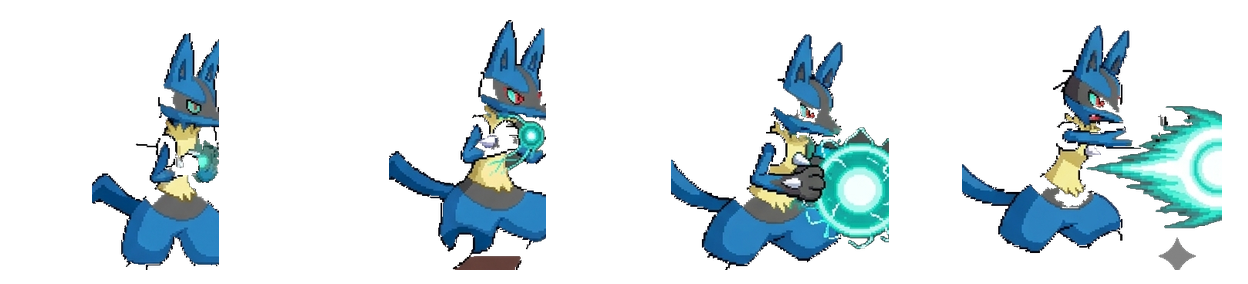
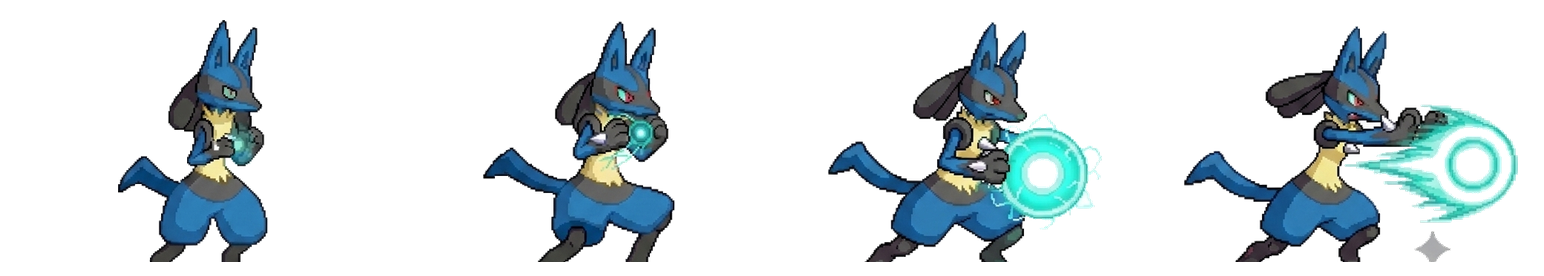
Redo Lucario Aura Sphere sequence from clean white-bg sheet
The original Lucario sheets were dark-background and inconsistently sized
between moves. The redone sheets are white-bg (matching the Venusaur sheets), so
extract_lucario.py now uses the white-bg pipeline (pure-white key + grid-line
removal + baseline-aligned strip build); source sheets live in tools/lucario_redo.

Re-extracts Aura Sphere -> luca_seq_as.png (cell 386x276, was 312x284) and
updates its BOSS_SEQ entry. Frames are baseline-aligned so Lucario stays put
while the orb forms and launches. Flash Cannon / Dragon Pulse / Vacuum Wave to
follow as their redone sheets arrive.

diff --git a/sparkrunmath.html b/sparkrunmath.html
@@ -159,7 +159,7 @@ const BOSS_SEQ = {
   'gyara_waterfall.png':  { file:'gyara_seq_wf.png', cw:510, ch:510 },
   'gyara_icefang.png':    { file:'gyara_seq_if.png', cw:445, ch:247 },
   // Lucario move strips (4-frame sequences extracted from the supplied sheets)
-  'luca_aurasphere.png':  { file:'luca_seq_as.png', cw:312, ch:284 },
+  'luca_aurasphere.png':  { file:'luca_seq_as.png', cw:386, ch:276 },
   'luca_flashcannon.png': { file:'luca_seq_fc.png', cw:553, ch:335 },
   'luca_dragonpulse.png': { file:'luca_seq_dp.png', cw:675, ch:362 },
   'luca_vacuumwave.png':  { file:'luca_seq_vw.png', cw:417, ch:396 },

diff --git a/tools/extract_lucario.py b/tools/extract_lucario.py
@@ -1,21 +1,28 @@
 #!/usr/bin/env python3
 """
-Extract Lucario move animation strips from the supplied 2x2 sequence sheets.
+Extract Lucario move animation strips from the REDONE 2x2 sequence sheets.
 
-Each source sheet is a 2x2 grid (title bar + per-cell labels) of Lucario doing a
-move across 4 frames, on a dark sheet background with lighter interior panels.
+The original Lucario sheets were dark-background and at inconsistent resolutions
+between moves, which made the in-game strips render at mismatched sizes. The
+redone sheets are WHITE-background (a thin black grid cross between the 4 cells),
+matching the Venusaur sheets — so this now uses the white-bg pipeline (the dark-
+bg version is retired; the old sheets remain in tools/lucario_sheets for ref).
 
-Pipeline (mirrors the Gyarados one documented in PROGRESS.md):
+Pipeline (mirrors tools/extract_venusaur.py):
   1. Find the 4 sprites as the 4 largest *saturated* blobs (Lucario's blue/yellow
-     body is saturated; panels, dividers and grey/white text are not).
-  2. For each, crop a padded bbox, then edge-flood-fill the background to
-     transparent (keeps interior black outlines, which aren't reachable from the
-     edge). Background = near the dark sheet bg OR near the grey panel colour.
-  3. Keep the largest blob (+ anything bright/coloured touching it) to drop stray
-     label specks, then assemble the 4 frames into one uniform horizontal strip.
+     body + the blue aura FX are saturated; the white sheet and black grid lines
+     are not).
+  2. For each, crop a padded bbox, edge-flood-fill the WHITE background to
+     transparent (+ a global pure-white key), and drop thin black grid-line
+     remnants that fall at a crop edge.
+  3. Assemble the 4 frames into one uniform horizontal strip — uniform scale
+     (median sprite height) + a common baseline/anchor so Lucario stays put while
+     the FX plays.
+
+Processes whatever sheets are present in tools/lucario_redo/, writes cleaned
+strips (luca_seq_*.png) into the repo root, plus a /tmp preview for visual QA.
 
 Run:  python3 tools/extract_lucario.py
-Outputs cleaned strips (luca_seq_*.png) into the repo root, plus a preview.
 """
 import os
 import numpy as np
@@ -23,12 +30,14 @@ from PIL import Image
 from scipy import ndimage
 
 ROOT = os.path.dirname(os.path.dirname(os.path.abspath(__file__)))
-SRC = os.path.join(ROOT, 'tools', 'lucario_sheets')      # committed source 2x2 grids
+SRC = os.path.join(ROOT, 'tools', 'lucario_redo')         # redone white-bg 2x2 grids
+WHITE = np.array([255, 255, 255])                          # sheets have black borders, so key on pure white (not corners)
+# source filename -> (out key, label). luca_seq_<key>.png mirrors the in-game move files.
 SHEETS = [
-    ('as', 'Aura Sphere',  f'{SRC}/aura_sphere.png'),
-    ('fc', 'Flash Cannon', f'{SRC}/flash_cannon.png'),
-    ('dp', 'Dragon Pulse', f'{SRC}/dragon_pulse.png'),
-    ('vw', 'Vacuum Wave',  f'{SRC}/vacuum_wave.png'),
+    ('aura_sphere.png',  'as', 'Aura Sphere'),
+    ('flash_cannon.png', 'fc', 'Flash Cannon'),
+    ('dragon_pulse.png', 'dp', 'Dragon Pulse'),
+    ('vacuum_wave.png',  'vw', 'Vacuum Wave'),
 ]
 
 def sat_val(a):
@@ -57,32 +66,30 @@ def find_frames(a):
     boxes.sort(key=lambda b: (b[1] + b[3]) / 2)
     return sorted(boxes[:2], key=lambda b: b[0]) + sorted(boxes[2:], key=lambda b: b[0])
 
-def cutout(a, box, darkbg, pad=10):
-    """Tight cutout of one sprite: pad the blob bbox, edge-flood-fill the bg to
-    transparent, drop label/divider specks, tighten. Returns (rgba, cx, baseline)."""
+def cutout(a, box, pad=10):
+    """Tight cutout of one sprite: pad the blob bbox, edge-flood-fill the white bg
+    to transparent, drop grid-line / label specks, tighten. Returns (rgba, cx, h)."""
     x0, y0, x1, y1 = box
     x0 = max(0, x0 - pad); y0 = max(0, y0 - pad)
     x1 = min(a.shape[1], x1 + pad); y1 = min(a.shape[0], y1 + pad)
     crop = a[y0:y1, x0:x1].astype(int)
     h, w, _ = crop.shape
     sat, val = sat_val(crop)
-    ring = np.concatenate([crop[0], crop[-1], crop[:, 0], crop[:, -1]])
-    rsat = ring.max(1) - ring.min(1)
-    panel = np.median(ring[rsat < 25], axis=0) if (rsat < 25).any() else darkbg
-    bglike = (np.abs(crop - darkbg).sum(2) < 64) | ((np.abs(crop - panel).sum(2) < 64) & (sat < 28))
+    bglike = (np.abs(crop - WHITE).sum(2) < 60) | ((sat < 18) & (val > 232))
     seed = np.zeros((h, w), bool)
     seed[0] = seed[-1] = seed[:, 0] = seed[:, -1] = True
     seed &= bglike
     fg = ~ndimage.binary_propagation(seed, mask=bglike)
-    # kill straight frame-border lines near the crop edges (dark OR grey panel),
-    # even where the FX touches them so they're not edge-reachable by the flood-fill
-    near_dark = np.abs(crop - darkbg).sum(2) < 70
-    near_panel = (np.abs(crop - panel).sum(2) < 70) & (sat < 30)
-    linecol = (near_dark | near_panel).mean(0)            # fraction of each column that's bg-like
-    linerow = near_dark.mean(1)
+    fg &= ~(np.abs(crop - WHITE).sum(2) < 30)             # global pure-white key (FX-ringed cells)
+    # kill the thin DARK grid-divider lines where they fall inside a crop edge,
+    # even where FX touches them (so they're not edge-reachable by the flood).
+    dark = (val < 110) & (sat < 40)
+    linecol = dark.mean(0)
+    linerow = dark.mean(1)
     edge = np.zeros(w, bool); edge[:max(1, int(w * 0.16))] = True; edge[int(w * 0.84):] = True
-    fg[:, edge & (linecol > 0.6)] = False                 # vertical border at a crop edge
-    fg[linerow > 0.85, :] = False                          # horizontal border
+    edgeR = np.zeros(h, bool); edgeR[:max(1, int(h * 0.16))] = True; edgeR[int(h * 0.84):] = True
+    fg[:, edge & (linecol > 0.6)] = False
+    fg[edgeR & (linerow > 0.6), :] = False
     lab, n = ndimage.label(fg)
     keep = np.zeros_like(fg)
     for i in range(1, n + 1):
@@ -90,11 +97,18 @@ def cutout(a, box, darkbg, pad=10):
         ys, xs = np.where(comp)
         bw = xs.max() - xs.min() + 1; bh = ys.max() - ys.min() + 1
         if len(ys) < 0.004 * h * w:          continue     # speck
-        # dark, thin, tall component spanning most of the height = a frame-border remnant
-        if bw <= 18 and bh >= 0.45 * h and bh / bw >= 4 and val[comp].mean() < 105:
-            continue
+        if min(bw, bh) <= 16 and max(bw, bh) >= 0.45 * max(h, w) and val[comp].mean() < 120 and sat[comp].mean() < 45:
+            continue                                       # thin, long, dark = grid-line remnant
         keep |= comp
-    fg = ndimage.binary_fill_holes(keep)
+    # fill only SMALL interior holes (anti-alias gaps); leave large trapped-white clear
+    filled = ndimage.binary_fill_holes(keep)
+    holes = filled & ~keep
+    hl, hn = ndimage.label(holes)
+    for i in range(1, hn + 1):
+        comp = hl == i
+        if comp.sum() < 0.0015 * h * w:
+            keep |= comp
+    fg = keep
     out = np.dstack([crop.astype(np.uint8), (fg * 255).astype(np.uint8)])
     ys, xs = np.where(fg)
     out = out[ys.min():ys.max() + 1, xs.min():xs.max() + 1]
@@ -122,17 +136,20 @@ def build(frames, target_h=240, padx=26, padtop=20, padbot=14):
 
 def main():
     previews = []
-    for key, label, path in SHEETS:
+    for fname, key, label in SHEETS:
+        path = os.path.join(SRC, fname)
+        if not os.path.exists(path):
+            continue                                        # process only the redone sheets uploaded so far
         a = np.asarray(Image.open(path).convert('RGB')).astype(int)
-        darkbg = np.median([a[0, 0], a[0, -1], a[-1, 0], a[-1, -1]], axis=0)
         boxes = find_frames(a)
-        frames = [cutout(a, b, darkbg) for b in boxes]
+        frames = [cutout(a, b) for b in boxes]
         strip, cw = build(frames)
         outp = os.path.join(ROOT, f'luca_seq_{key}.png')
         strip.save(outp)
-        print(f'{label:14s} -> luca_seq_{key}.png  {strip.width}x{strip.height} (cell {cw})')
+        print(f'{label:13s} -> luca_seq_{key}.png  {strip.width}x{strip.height}  (BOSS_SEQ: cw={cw}, ch={strip.height})')
         previews.append((label, strip))
-    # contact sheet for visual QA (on magenta so transparency is obvious)
+    if not previews:
+        print('No redone sheets found in', SRC); return
     W = max(s.width for _, s in previews)
     H = sum(s.height for _, s in previews) + 20 * len(previews)
     sheet = Image.new('RGBA', (W, H), (255, 0, 255, 255))
